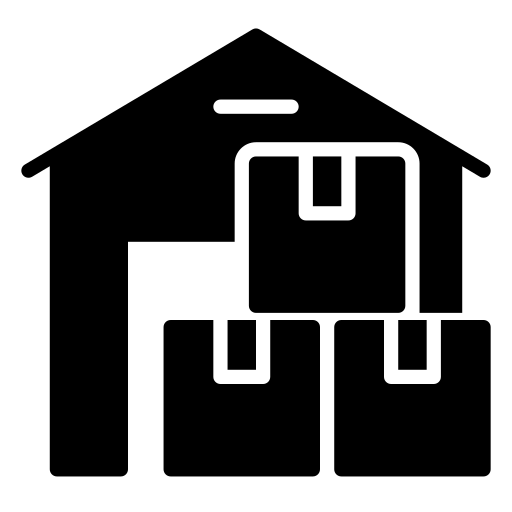
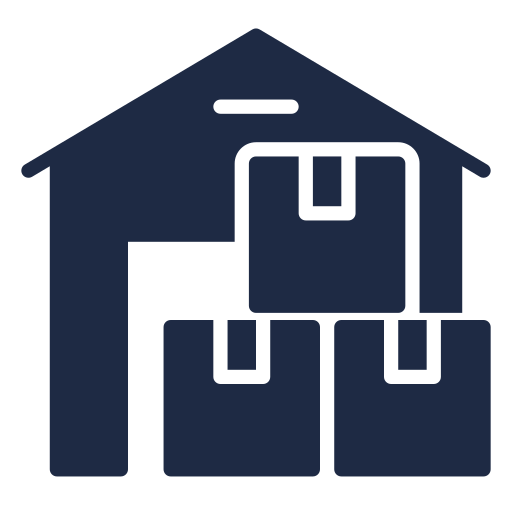
refactor:

diff --git a/src/main/resources/static/js/home_script.js b/src/main/resources/static/js/home_script.js
@@ -1,53 +1,81 @@
-$(document).ready(function() {
+$(document).ready(function () {
     var map;
     var markers = []; // 마커 배열
+    var baseSize = 35; // 기본 마커 크기
 
+    // 마커 데이터 배열
+    var markerData = [
+        {name: "가락시장", lat: 37.49239, lon: 127.118104},
+        {name: "고속터미널", lat: 37.505187, lon: 127.004797},
+        {name: "군자", lat: 37.557416, lon: 127.079572},
+        {name: "길음", lat: 37.603415, lon: 127.024904},
+        {name: "김포공항", lat: 37.562294, lon: 126.801375},
+        {name: "독산", lat: 37.466035, lon: 126.889512},
+        {name: "목동", lat: 37.526115, lon: 126.864263},
+        {name: "불광", lat: 37.610664, lon: 126.929822},
+        {name: "석계", lat: 37.615167, lon: 127.065758},
+        {name: "신내", lat: 37.612872, lon: 127.103202},
+        {name: "신림", lat: 37.484274, lon: 126.929669},
+        {name: "양재", lat: 37.484187, lon: 127.034374},
+        {name: "온수", lat: 37.492191, lon: 126.823629},
+        {name: "용산", lat: 37.529898, lon: 126.964774},
+        {name: "창동", lat: 37.652913, lon: 127.047924},
+        {name: "천호", lat: 37.538773, lon: 127.123324},
+        {name: "화계", lat: 37.634237, lon: 127.017491}
+    ];
+
+    // 지도 초기화 함수
     function initTmap() {
         map = new Tmapv2.Map("map_div", {
             center: new Tmapv2.LatLng(37.5665, 126.9780),
             zoom: 11
         });
 
-        // 마커 데이터 배열
-        var markerData = [
-            { name: "가락시장", lat: 37.49239, lon: 127.118104 },
-            { name: "고속터미널", lat: 37.505187, lon: 127.004797 },
-            { name: "군자", lat: 37.557416, lon: 127.079572 },
-            { name: "길음", lat: 37.603415, lon: 127.024904 },
-            { name: "김포공항", lat: 37.562294, lon: 126.801375 },
-            { name: "독산", lat: 37.466035, lon: 126.889512 },
-            { name: "목동", lat: 37.526115, lon: 126.864263 },
-            { name: "불광", lat: 37.610664, lon: 126.929822 },
-            { name: "석계", lat: 37.615167, lon: 127.065758 },
-            { name: "신내", lat: 37.612872, lon: 127.103202 },
-            { name: "신림", lat: 37.484274, lon: 126.929669 },
-            { name: "양재", lat: 37.484187, lon: 127.034374 },
-            { name: "온수", lat: 37.492191, lon: 126.823629 },
-            { name: "용산", lat: 37.529898, lon: 126.964774 },
-            { name: "창동", lat: 37.652913, lon: 127.047924 },
-            { name: "천호", lat: 37.538773, lon: 127.123324 },
-            { name: "화계", lat: 37.634237, lon: 127.017491 }
-        ];
-
-        // 마커 추가 함수
-        function addMarker(lat, lon, name) {
-            var marker = new Tmapv2.Marker({
-                position: new Tmapv2.LatLng(lat, lon),
-                map: map,
-                title: name,
-                icon: "/img/h_warehouse.png", // 마커 아이콘 (필요시 변경 가능)
-                iconSize: new Tmapv2.Size(30, 30), // 마커 크기 설정
-                iconAnchor: new Tmapv2.Point(15, 30) // 마커 중심 조정 (선택 사항)
-            });
-            markers.push(marker); // 배열에 저장
-        }
-
         // 모든 마커 지도에 추가
         markerData.forEach(station => {
-            addMarker(station.lat, station.lon, station.name);
+            addMarker(station.lat, station.lon, station.name, baseSize);
+        });
+
+        // 줌 이벤트 감지하여 마커 크기 변경
+        map.addListener("zoom_changed", function () {
+            updateMarkerSize();
+        });
+    }
+
+    // 마커 추가 함수
+    function addMarker(lat, lon, name, size) {
+        var marker = new Tmapv2.Marker({
+            position: new Tmapv2.LatLng(lat, lon),
+            map: map,
+            title: name,
+            icon: "/img/h_marker.png",
+            iconSize: new Tmapv2.Size(size, size)
+        });
+        markers.push(marker);
+    }
+
+    // 줌 변경 시 마커 크기 조정 함수
+    function updateMarkerSize() {
+        var zoomLevel = map.getZoom(); // 현재 줌 레벨 가져오기
+        var newSize = baseSize * (zoomLevel / 10); // 줌 레벨에 따라 크기 조정
+
+        markers.forEach(marker => {
+            marker.setIcon("/img/h_marker.png", new Tmapv2.Size(newSize, newSize));
         });
     }
 
     // 페이지 로드 시 지도 초기화 실행
     initTmap();
+
+    // 하이라이트 기능 (추가 코드 - 유지)
+    let steps = document.querySelectorAll(".process-step");
+    let index = 0;
+
+    function highlightStep() {
+        steps.forEach(step => step.classList.remove("highlight"));
+        steps[index].classList.add("highlight");
+        index = (index + 1) % steps.length;
+    }
+
+    setInterval(highlightStep, 1000);
 });

diff --git a/src/main/resources/static/css/homestyles.css b/src/main/resources/static/css/homestyles.css
@@ -69,6 +69,10 @@ main {
     height: 100%; /* 부모 컨테이너의 높이를 채우도록 설정 */
 }
 
+.buttons-container .info-icon {
+    filter: brightness(0) saturate(100%) invert(15%) sepia(27%) saturate(493%) hue-rotate(175deg) brightness(93%) contrast(93%);
+}
+
 .info-box {
     background-color: #ffffff;
     padding: 20px;
@@ -134,6 +138,9 @@ main {
     flex: 1;
     min-width: 100px; /* 최소 너비 설정 */
     margin: 10px 0;
+
+    opacity: 0.5;
+    transition: opacity 0.5s ease-in-out;
 }
 
 .process-step:not(:last-child)::after {
@@ -147,15 +154,33 @@ main {
     z-index: -1;
 }
 
-.step-icon {
-    font-size: 2em;
+.step-icon img{
+    width: 40px;
+    height: 40px;
     margin-bottom: 5px;
+    filter: brightness(1.2) contrast(1.2); /* 밝기 및 대비 조정 */
+}
+
+.highlight {
+    opacity: 1 !important;
 }
 
 .step-label {
     font-size: 1em;
     color: #333;
 }
+
+@keyframes pulse {
+    0% { transform: scale(1); }
+    50% { transform: scale(1.1); } /* 살짝 확대 */
+    100% { transform: scale(1); }
+}
+
+.process-step.highlight {
+    animation: pulse 0.5s ease-in-out; /* 0.5초 동안 확대 후 원래 크기로 */
+    font-weight: bold; /* 글씨도 굵게 변경 */
+}
+
 
 /* 반응형 디자인 */
 @media (max-width: 768px) {

diff --git a/src/main/resources/static/js/map_script.js b/src/main/resources/static/js/map_script.js
@@ -105,9 +105,9 @@ $(document).ready(function() {
                     position: new Tmapv2.LatLng(station.latitude, station.longitude),
                     map: map,
                     title: station.name,
-                    icon: "/img/h_warehouse.png",  // Spring 서버에서 제공하는 정적 경로
-                    iconSize: new Tmapv2.Size(30, 30), // 마커 크기 설정
-                    iconAnchor: new Tmapv2.Point(15, 30) // 마커 중심 조정 (선택 사항)
+                    icon: "/img/h_marker.png",  // Spring 서버에서 제공하는 정적 경로
+                    iconSize: new Tmapv2.Size(35, 35), // 마커 크기 설정
+                    iconAnchor: new Tmapv2.Point(17, 35) // 마커 중심 조정 (선택 사항)
                 });
                 markers.push(marker);
             });
